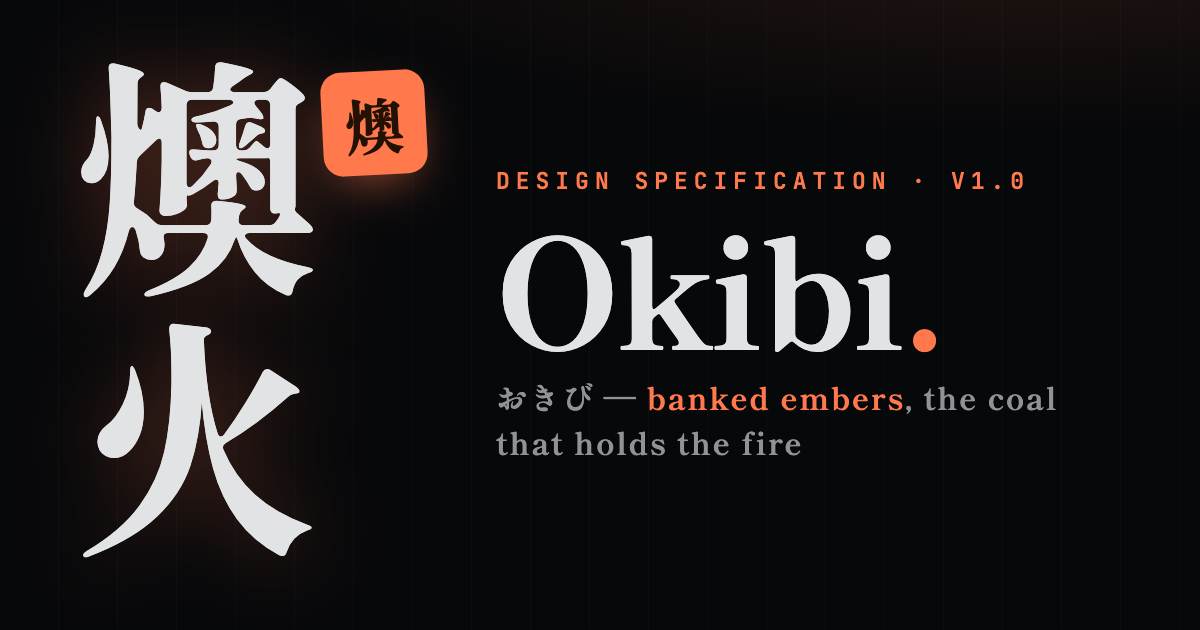
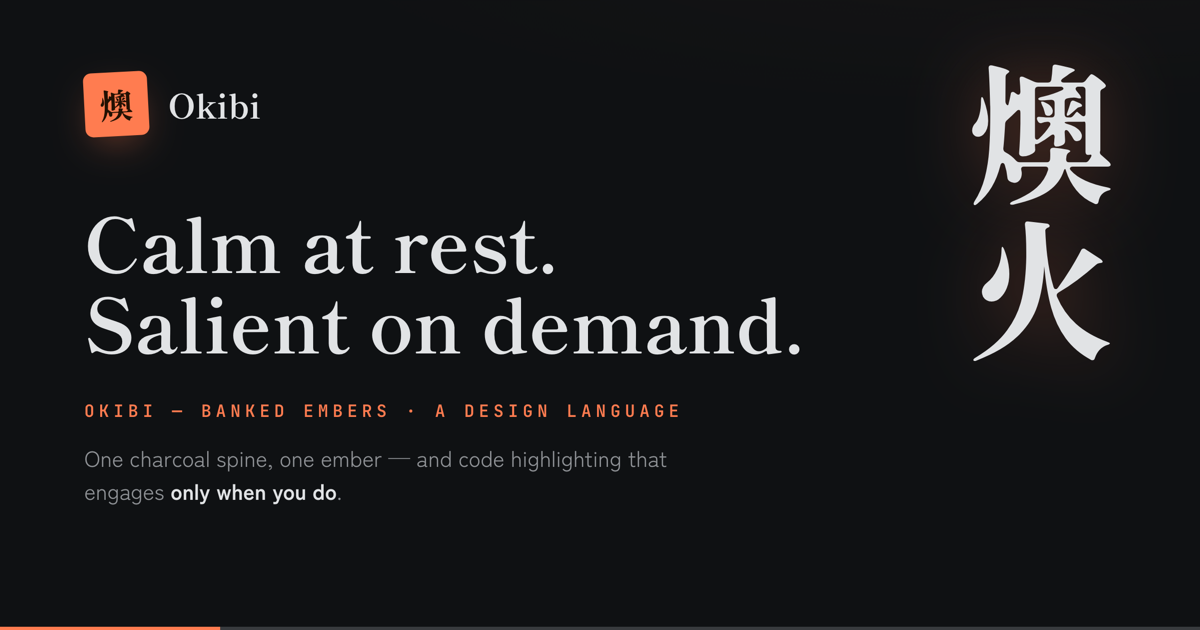
Adding socials images

diff --git a/code.html b/code.html
@@ -4,6 +4,13 @@
 <meta charset="UTF-8">
 <meta name="viewport" content="width=device-width, initial-scale=1.0">
 <title>Okibi 燠火 — Code</title>
+<link rel="icon" href="favicon.svg" type="image/svg+xml">
+<meta property="og:type" content="website">
+<meta property="og:url" content="https://kaievns.github.io/okibi-akiri-design-system-spec/code.html">
+<meta property="og:title" content="Okibi 燠火 — Code">
+<meta property="og:description" content="The three-band highlighting system: a calm resting register, identity tints on focus, risk marks on edit — salience follows intent.">
+<meta property="og:image" content="https://kaievns.github.io/okibi-akiri-design-system-spec/og-image.png">
+<meta name="twitter:card" content="summary_large_image">
 <link rel="stylesheet" href="styles.css">
 <style>
   body{font-size:15.5px;}

diff --git a/doctrine.html b/doctrine.html
@@ -4,6 +4,13 @@
 <meta charset="UTF-8">
 <meta name="viewport" content="width=device-width, initial-scale=1.0">
 <title>Okibi 燠火 — Doctrine</title>
+<link rel="icon" href="favicon.svg" type="image/svg+xml">
+<meta property="og:type" content="website">
+<meta property="og:url" content="https://kaievns.github.io/okibi-akiri-design-system-spec/doctrine.html">
+<meta property="og:title" content="Okibi 燠火 — Doctrine">
+<meta property="og:description" content="The doctrine: a theme is an attention-allocation policy. Salience is a budget — one charcoal spine, one ember, and the laws that keep them honest.">
+<meta property="og:image" content="https://kaievns.github.io/okibi-akiri-design-system-spec/og-image.png">
+<meta name="twitter:card" content="summary_large_image">
 <link rel="stylesheet" href="styles.css">
 <style>
   body{font-size:15.5px;}

diff --git a/for-llms.html b/for-llms.html
@@ -4,6 +4,13 @@
 <meta charset="UTF-8">
 <meta name="viewport" content="width=device-width, initial-scale=1.0">
 <title>Okibi 燠火 — For LLMs</title>
+<link rel="icon" href="favicon.svg" type="image/svg+xml">
+<meta property="og:type" content="website">
+<meta property="og:url" content="https://kaievns.github.io/okibi-akiri-design-system-spec/for-llms.html">
+<meta property="og:title" content="Okibi 燠火 — For LLMs">
+<meta property="og:description" content="Written for machines too: llm-context.md hands an LLM the entire system as binding context — doctrine, specs, every resolved value.">
+<meta property="og:image" content="https://kaievns.github.io/okibi-akiri-design-system-spec/og-image.png">
+<meta name="twitter:card" content="summary_large_image">
 <link rel="stylesheet" href="styles.css">
 <style>
   body{font-size:15.5px;}

diff --git a/foundations.html b/foundations.html
@@ -4,6 +4,13 @@
 <meta charset="UTF-8">
 <meta name="viewport" content="width=device-width, initial-scale=1.0">
 <title>Okibi 燠火 — Foundations</title>
+<link rel="icon" href="favicon.svg" type="image/svg+xml">
+<meta property="og:type" content="website">
+<meta property="og:url" content="https://kaievns.github.io/okibi-akiri-design-system-spec/foundations.html">
+<meta property="og:title" content="Okibi 燠火 — Foundations">
+<meta property="og:description" content="The foundations: the twelve-step spine, the ember, the quiet pigments, type, surfaces and components — every value on display.">
+<meta property="og:image" content="https://kaievns.github.io/okibi-akiri-design-system-spec/og-image.png">
+<meta name="twitter:card" content="summary_large_image">
 <link rel="stylesheet" href="styles.css">
 <style>
   body{font-size:15.5px;}

diff --git a/index.html b/index.html
@@ -5,6 +5,13 @@
 <meta name="viewport" content="width=device-width, initial-scale=1.0">
 <title>Okibi 燠火 — calm at rest, salient on demand</title>
 <meta name="description" content="Okibi is a design language built on one claim: a theme is an attention-allocation policy. One charcoal spine, one ember, and code highlighting that engages only when you do.">
+<link rel="icon" href="favicon.svg" type="image/svg+xml">
+<meta property="og:type" content="website">
+<meta property="og:url" content="https://kaievns.github.io/okibi-akiri-design-system-spec/">
+<meta property="og:title" content="Okibi 燠火 — calm at rest, salient on demand">
+<meta property="og:description" content="Okibi is a design language built on one claim: a theme is an attention-allocation policy. One charcoal spine, one ember, and code highlighting that engages only when you do.">
+<meta property="og:image" content="https://kaievns.github.io/okibi-akiri-design-system-spec/og-image.png">
+<meta name="twitter:card" content="summary_large_image">
 <link rel="stylesheet" href="styles.css">
 <style>
   body{font-size:15.5px;}

diff --git a/markdown.html b/markdown.html
@@ -4,6 +4,13 @@
 <meta charset="UTF-8">
 <meta name="viewport" content="width=device-width, initial-scale=1.0">
 <title>Okibi 燠火 — Markdown</title>
+<link rel="icon" href="favicon.svg" type="image/svg+xml">
+<meta property="og:type" content="website">
+<meta property="og:url" content="https://kaievns.github.io/okibi-akiri-design-system-spec/markdown.html">
+<meta property="og:title" content="Okibi 燠火 — Markdown">
+<meta property="og:description" content="The markdown register: prose is content, sigils are furniture — headings by weight, links sora, one ember.">
+<meta property="og:image" content="https://kaievns.github.io/okibi-akiri-design-system-spec/og-image.png">
+<meta name="twitter:card" content="summary_large_image">
 <link rel="stylesheet" href="styles.css">
 <style>
   body{font-size:15.5px;}

diff --git a/tools.html b/tools.html
@@ -4,6 +4,13 @@
 <meta charset="UTF-8">
 <meta name="viewport" content="width=device-width, initial-scale=1.0">
 <title>Okibi 燠火 — Tools</title>
+<link rel="icon" href="favicon.svg" type="image/svg+xml">
+<meta property="og:type" content="website">
+<meta property="og:url" content="https://kaievns.github.io/okibi-akiri-design-system-spec/tools.html">
+<meta property="og:title" content="Okibi 燠火 — Tools">
+<meta property="og:description" content="Steal the tokens: VS Code themes, Obsidian snippet, Prism/hljs CSS, terminal scheme and okibi.tokens.json — all generated from one source.">
+<meta property="og:image" content="https://kaievns.github.io/okibi-akiri-design-system-spec/og-image.png">
+<meta name="twitter:card" content="summary_large_image">
 <link rel="stylesheet" href="styles.css">
 <style>
   body{font-size:15.5px;}